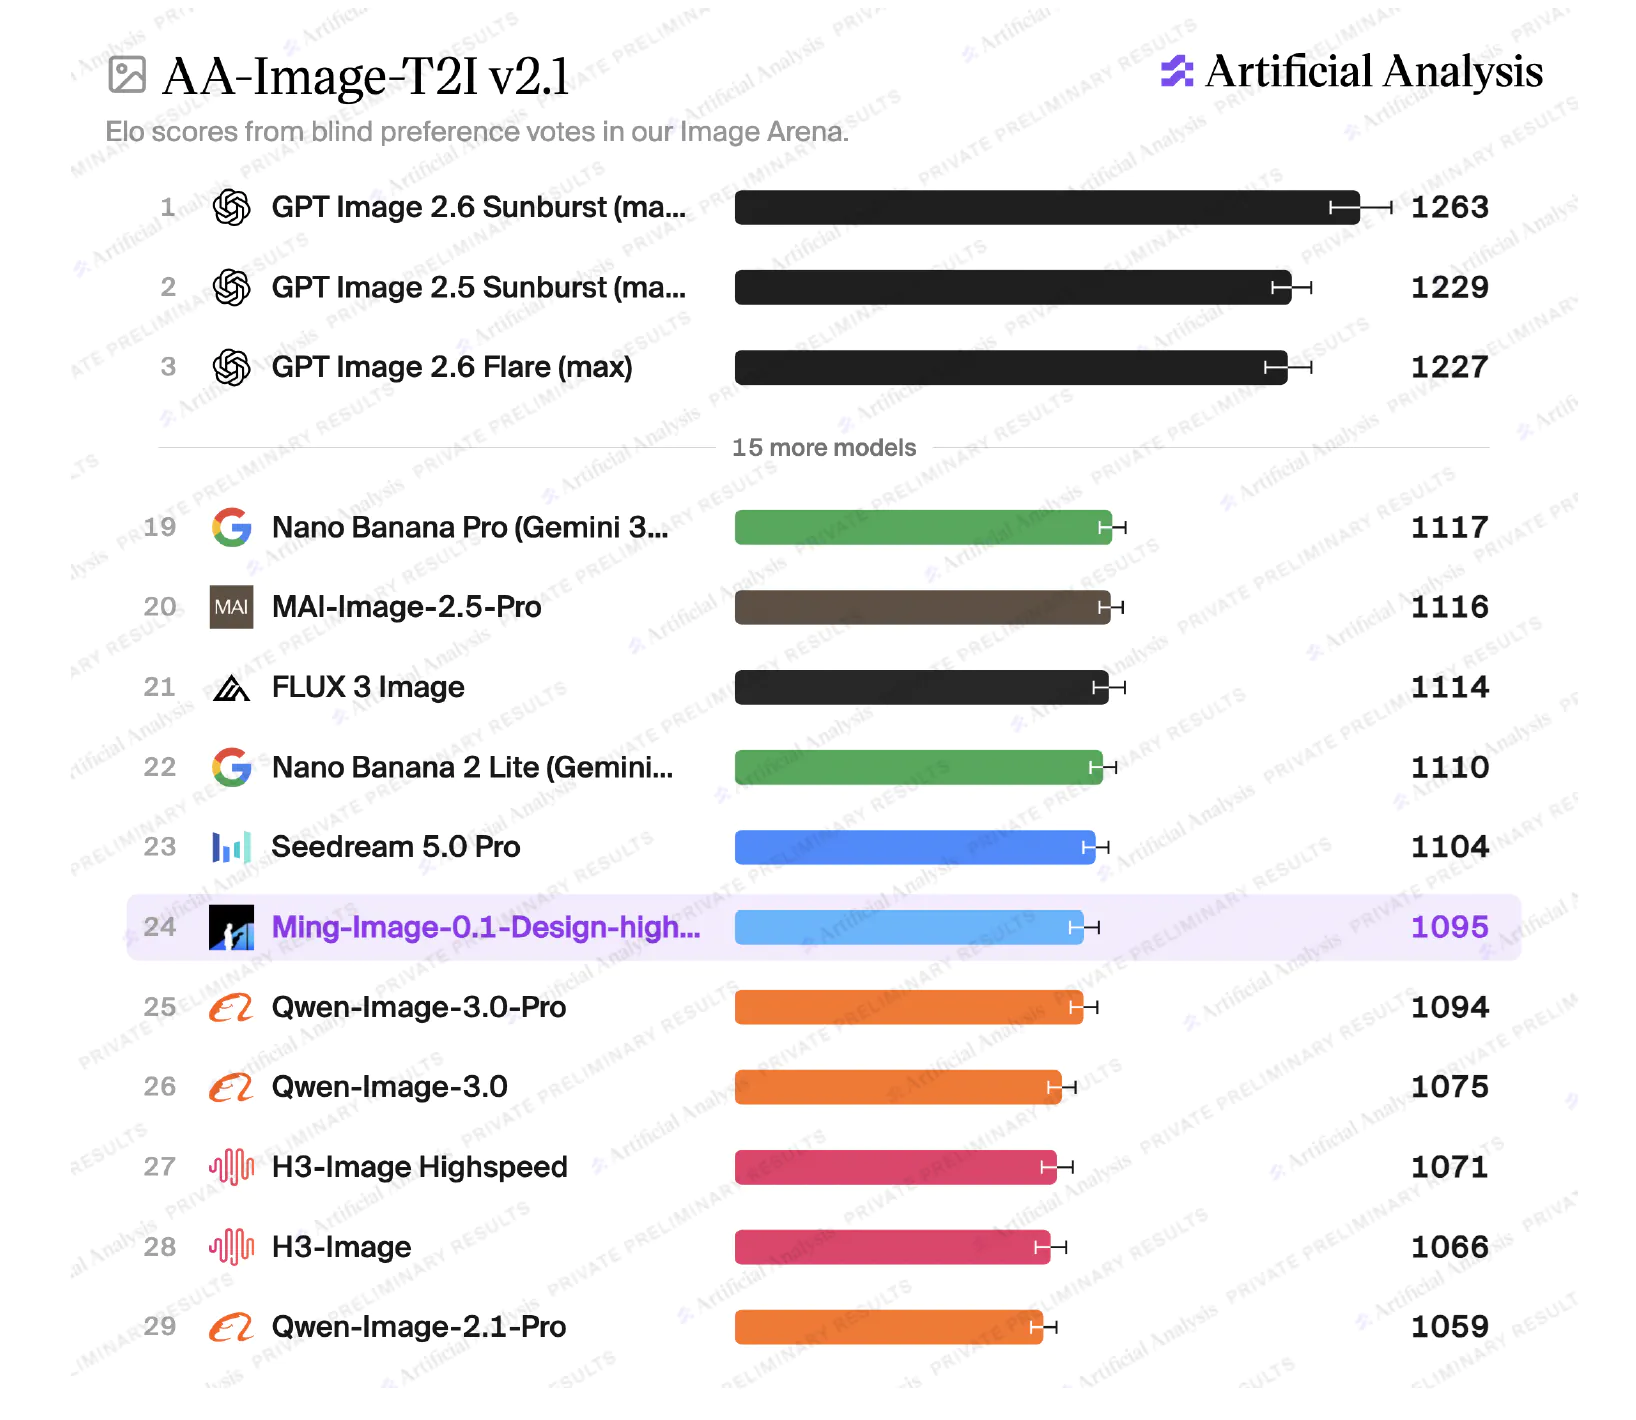
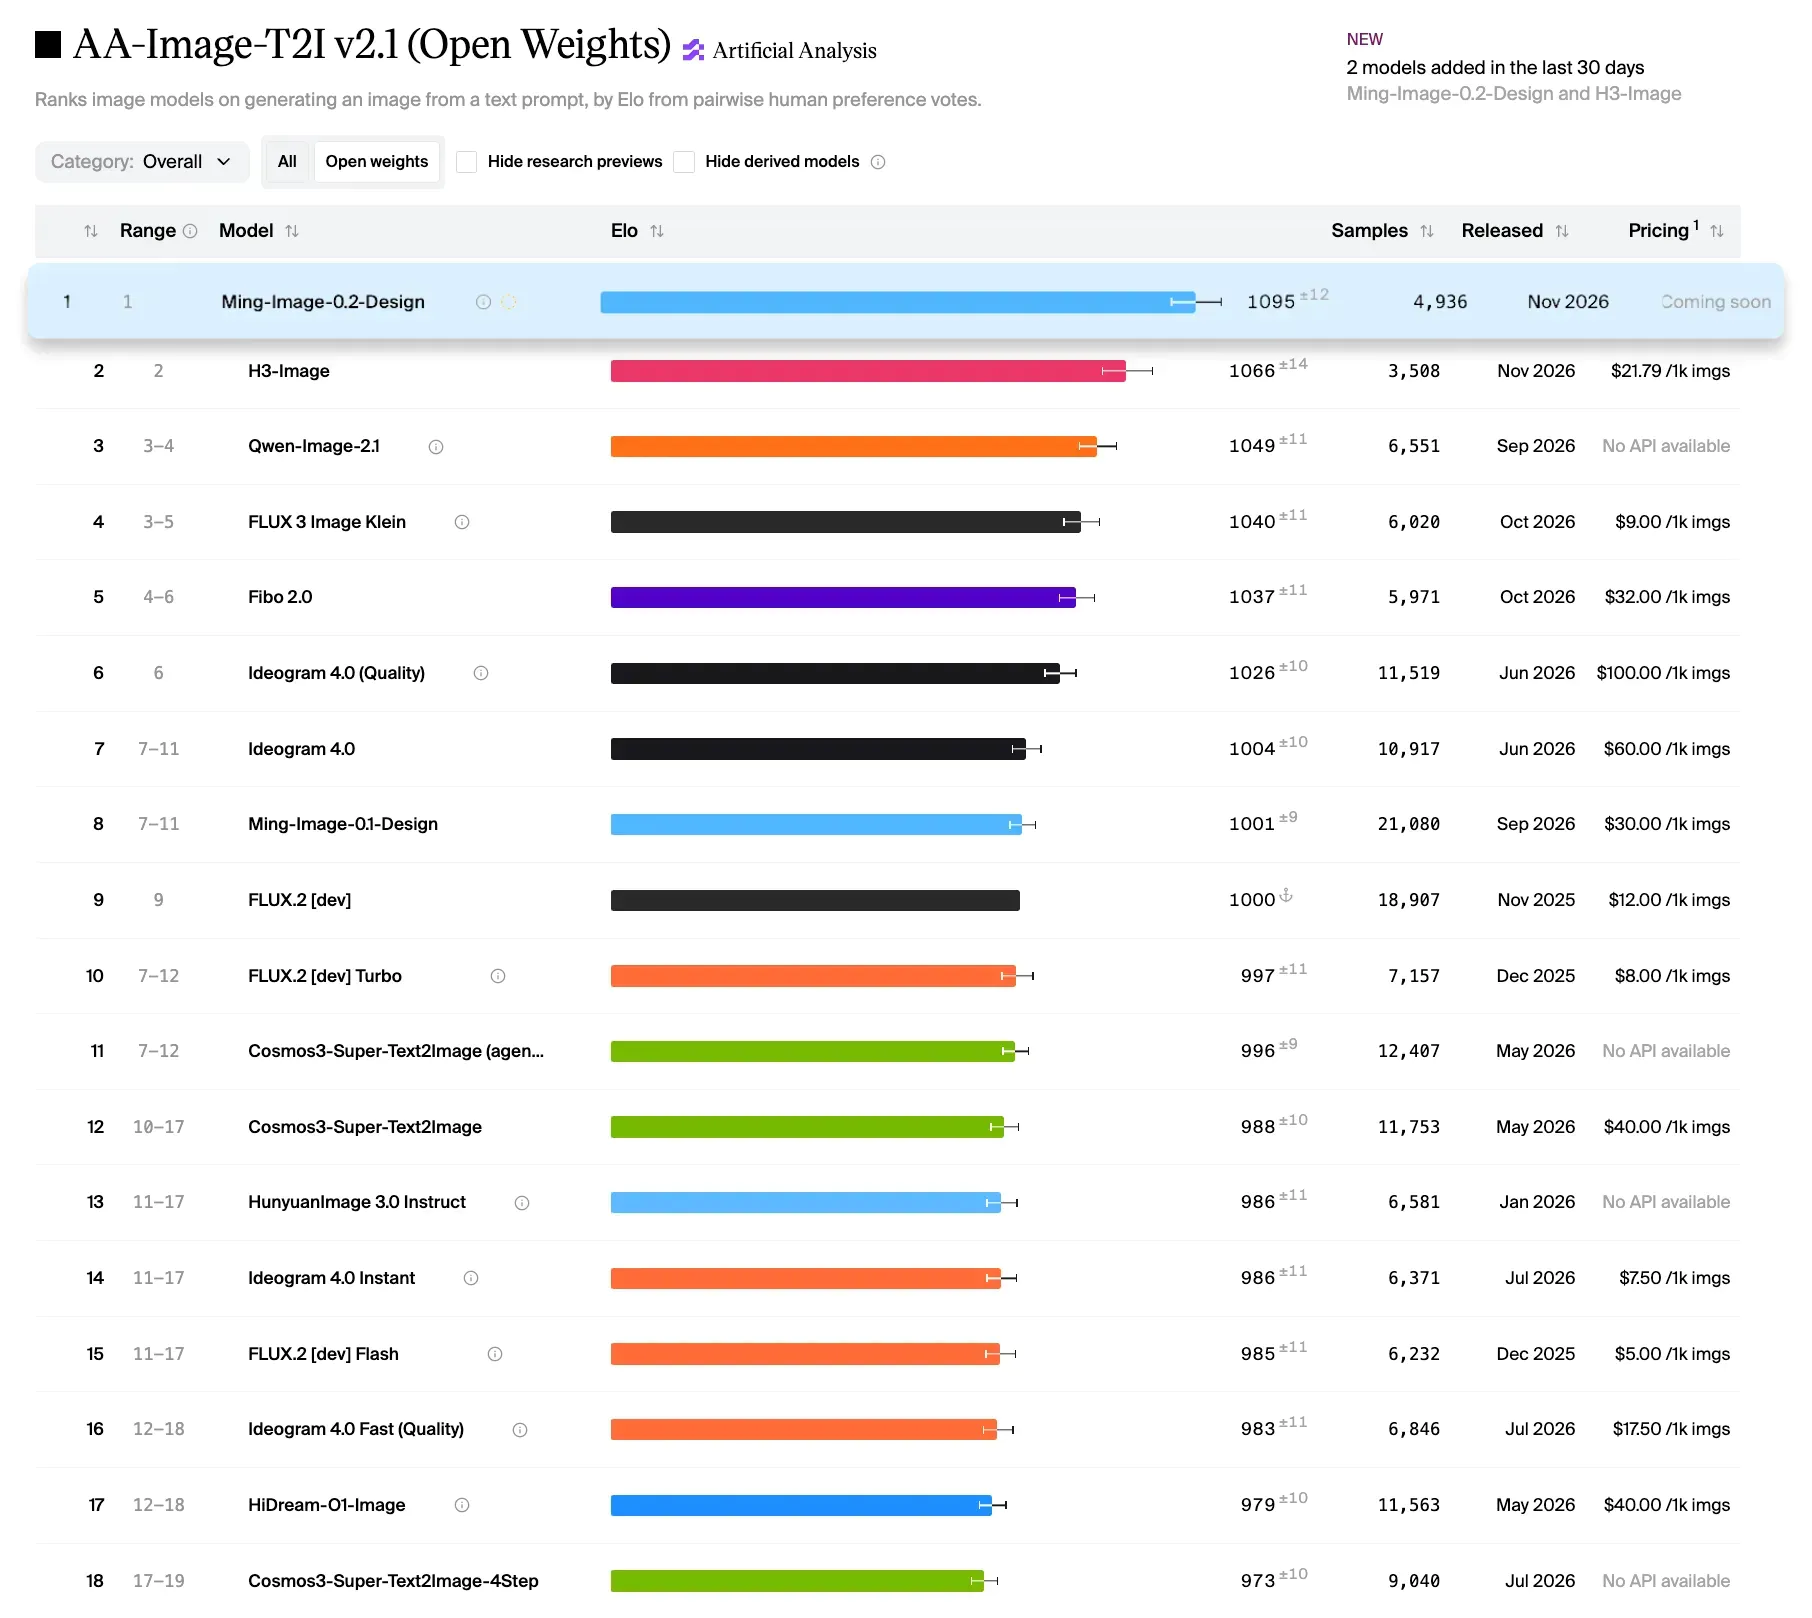
docs: refresh the 0.2 open-weights leaderboard figure

diff --git a/README.md b/README.md
@@ -26,9 +26,9 @@ designs into independently editable transparent layers.
     <td valign="top">
       <strong>#1 among open-weight models overall</strong><br>
       <sub>As of Nov 25, 2026 · AA-Image-T2I v2.1</sub><br>
-      <a href="assets/ming-image-0.2-design-aa-t2i-leaderboard.webp"><img src="assets/ming-image-0.2-design-aa-t2i-leaderboard-preview.webp" width="49%" alt="Ming-Image-0.2-Design AA-Image-T2I v2.1 leaderboard"></a>
+      <a href="assets/ming-image-0.2-design-aa-t2i-leaderboard.webp"><img src="assets/ming-image-0.2-design-aa-t2i-leaderboard-preview.webp" width="49%" alt="Ming-Image-0.2-Design ranked first on the AA-Image-T2I v2.1 overall open-weights leaderboard"></a>
       <a href="assets/ming-image-0.2-design-aa-category-performance.webp"><img src="assets/ming-image-0.2-design-aa-category-performance-preview.webp" width="49%" alt="Ming-Image-0.2-Design category performance"></a><br>
-      <sub>Evaluated as <code>Ming-Image-0.1-Design-high-AA</code> in November 2026. Click either image to view it at full size.</sub>
+      <sub>The category figure (right) uses the November 2026 evaluation name <code>Ming-Image-0.1-Design-high-AA</code>. Click either image to view it at full size.</sub>
     </td>
   </tr>
   <tr>

diff --git a/assets/README.md b/assets/README.md
@@ -6,10 +6,10 @@ README and runnable demos.
 ## Contents
 
 - [`ming-image-0.2-design-aa-t2i-leaderboard.webp`](./ming-image-0.2-design-aa-t2i-leaderboard.webp)
-  is the November 2026 preliminary AA-Image-T2I v2.1 leaderboard for 0.2 Design.
+  is the AA-Image-T2I v2.1 overall open-weights leaderboard for 0.2 Design.
 - [`ming-image-0.2-design-aa-category-performance.webp`](./ming-image-0.2-design-aa-category-performance.webp)
   shows the same model's category ranks and Elo gaps to category leaders.
-  The figures use the evaluation name `Ming-Image-0.1-Design-high-AA` for
+  This category figure uses the evaluation name `Ming-Image-0.1-Design-high-AA` for
   0.2 Design.
 - The corresponding `*-preview.webp` assets display the two 0.2 leaderboard
   figures in matching frames without stretching; each links to the full-resolution figure.
